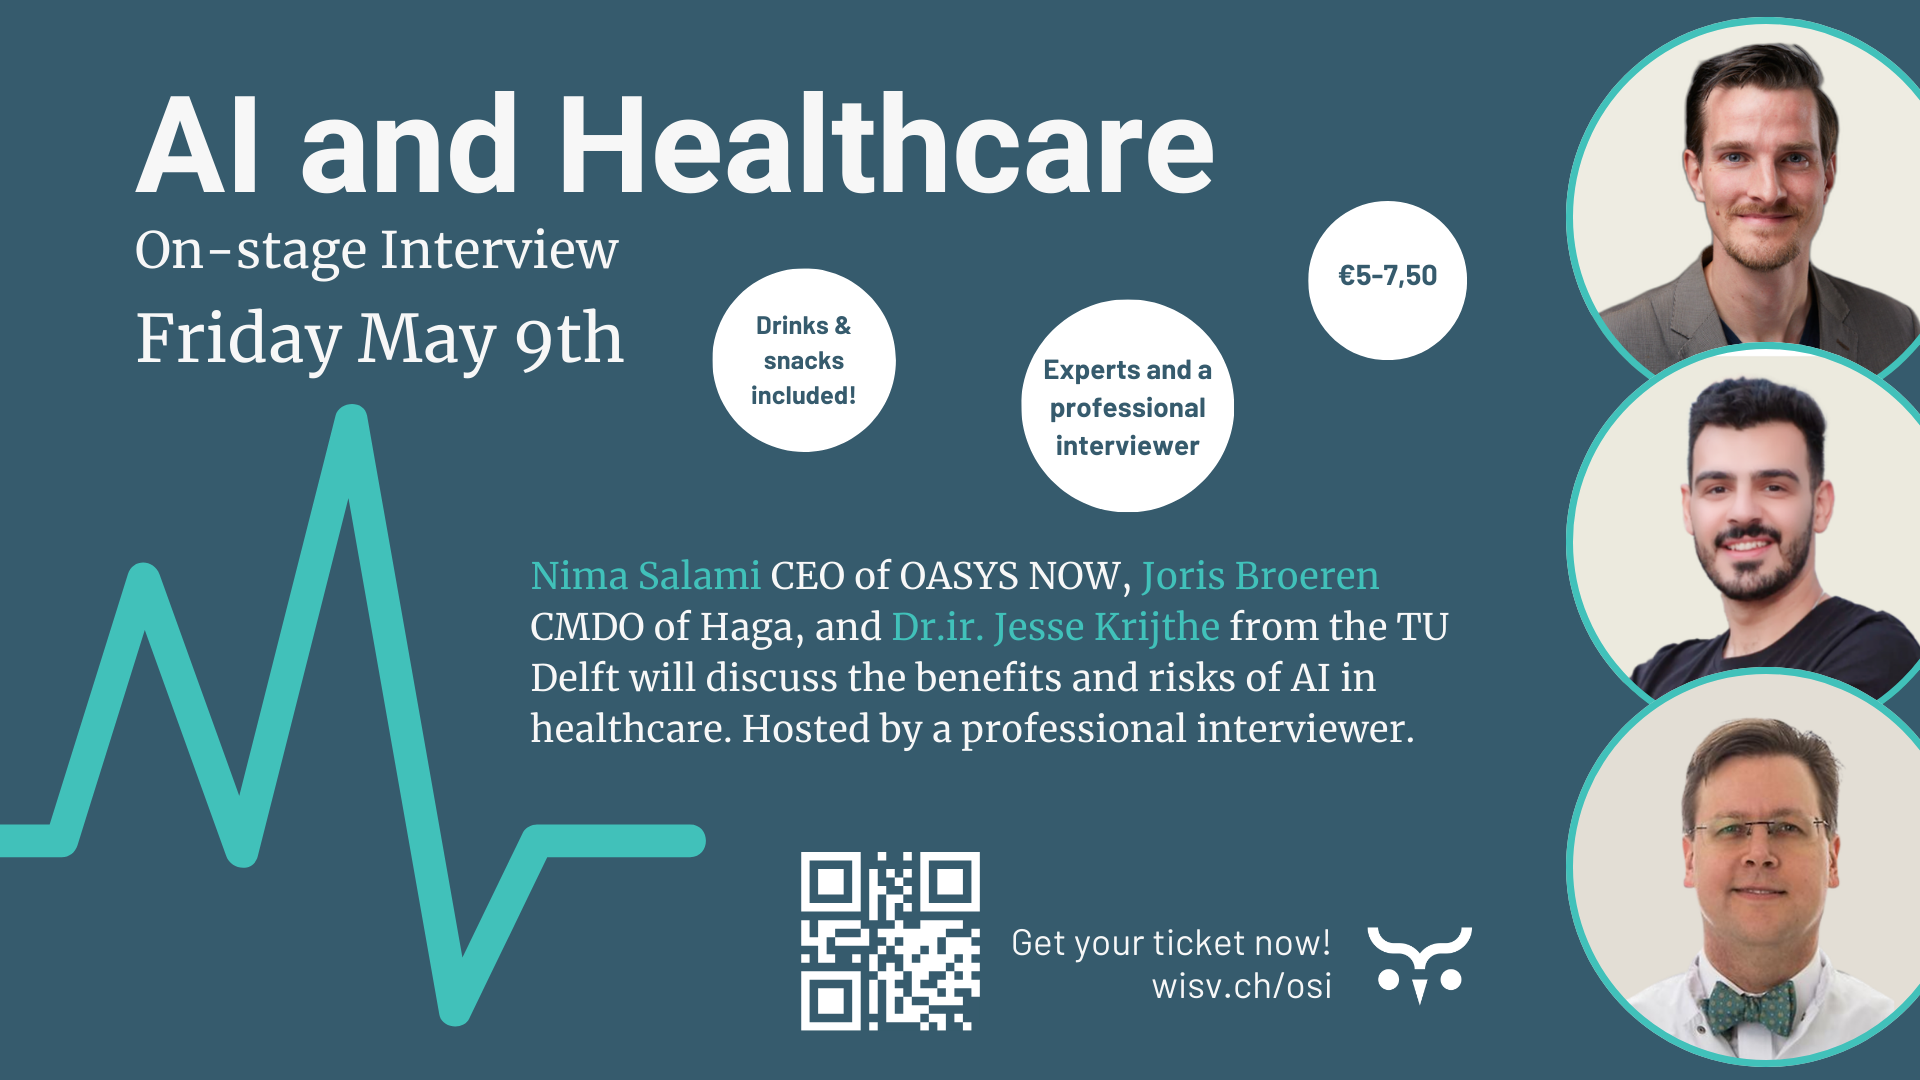
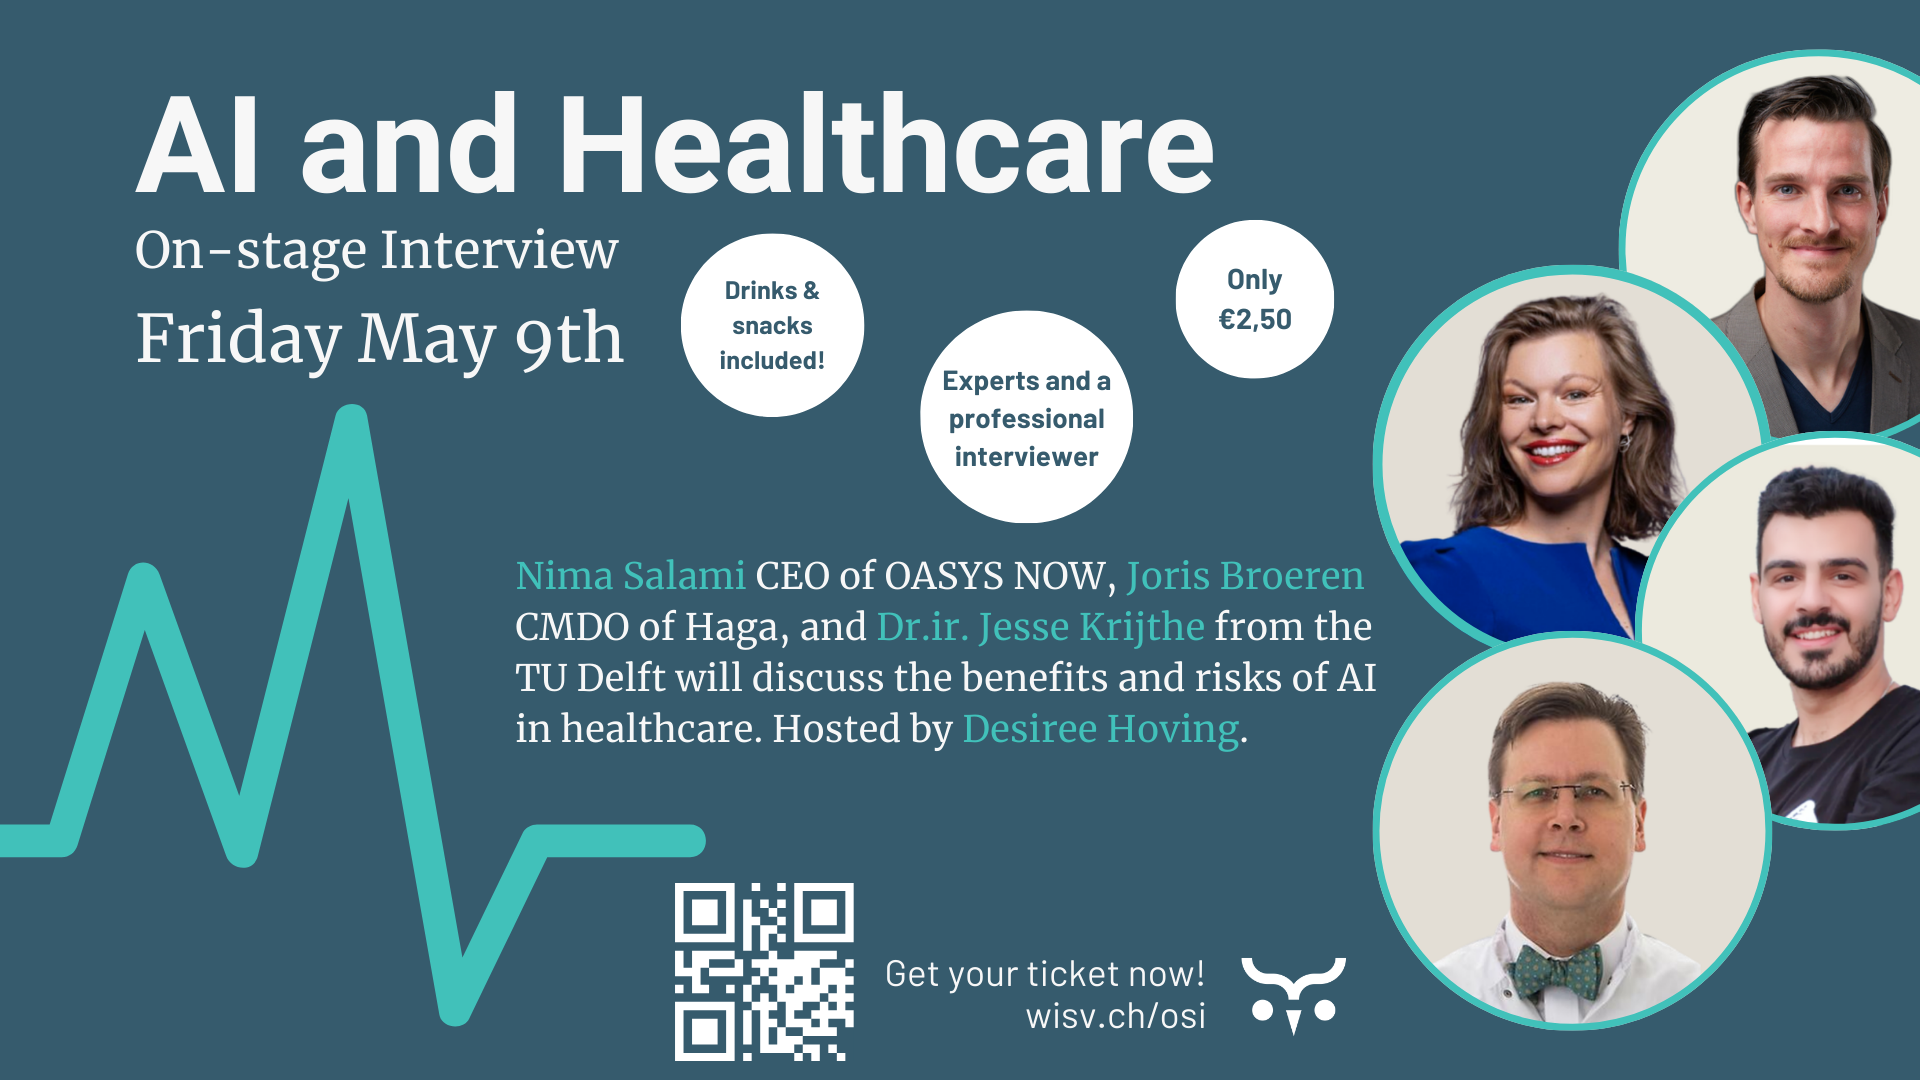
fix(CoH): update text and poster to include interviewer

Changed region(s): [[0.25, 0.0, 1.0, 1.0]]

diff --git a/alumni.ch.tudelft.nl/index.html@p=737_osi_2025.html b/alumni.ch.tudelft.nl/index.html@p=737_osi_2025.html
@@ -341,11 +341,11 @@ body.custom-background { background-color: #eff4fc; }
 			</header><!-- .entry-header -->
 
 			<div class="entry-content">
-				
+
+				<p>During this year's On-Stage Interview, a panel will be interviewed on the topic of AI and healthcare. The panel consists of Nima Salami, Joris Broeren, and Jesse Krijthe. The interview will be led by Desiree Hoving, who used to do research at TU Delft and is now a professional moderator.</p
+				<p>Nima Salami is founder of OASYS NOW. His start-up has a mission to build a privacy-first way for people to have grip on their health data and be matched with clinical trials. Joris Broeren is anesthesiologist and Chief medical Data Officer at HAGA Ziekenhuis. He will provide his view upon AI in healthcare as a medical specialist. Jesse Krijthe is assistant professor in the Pattern Recognition & Bioinformatics group at the TU, he will provide an academical view.</p
+<p>The interview will take place in the Aula and there will be drinks afterwards. You are welcome from 19:30, the interview will start at 20:00.</p>				
 				<p>Tickets for alumni are free and available via <a href="https://wisv.ch/alumniosi">wisv.ch/alumniosi</a>.</p>
-				<p>During this year&#8217;s On-Stage Interview, a panel will be interviewed on the topic of AI and healthcare. The panel consists of Nima Salami, Joris Broeren, and Jesse Krijthe.</p>
-				<p>Nima Salami is founder of OASYS NOW. His start-up has a mission to build a privacy-first way for people to have grip on their health data and be matched with clinical trials. Joris Broeren is anesthesiologist and Chief medical Data Officer at HAGA Ziekenhuis. He will provide his view upon AI in healthcare as a medical specialist. Jesse Krijthe is assistant professor in the Pattern Recognition & Bioinformatics group at the TU, he will provide an academical view.</p>
-				<p>The interview will take place in the Aula and there will be a borrel afterwards. You are welcome from 19:30, the interview will start at 20:00.</p>
 				
 			</div><!-- .entry-content -->
 

diff --git a/alumni.ch.tudelft.nl/index.html b/alumni.ch.tudelft.nl/index.html
@@ -337,9 +337,9 @@ body.custom-background { background-color: #eff4fc; }
 	</header><!-- .entry-header -->
 
 	<div class="entry-summary">
-		<p>Tickets for alumni are free and available via <a href="https://wisv.ch/alumniosi">wisv.ch/alumniosi</a>.</p>
-		<p>During this year&#8217;s On-Stage Interview, a panel will be interviewed on the topic of AI and healthcare. The panel consists of Nima Salami, Joris Broeren, and Jesse Krijthe.</p>	
+		<p>During this year's On-Stage Interview, a panel will be interviewed on the topic of AI and healthcare. The panel consists of Nima Salami, Joris Broeren, and Jesse Krijthe. The interview will be led by Desiree Hoving, who used to do research at TU Delft and is now a professional moderator.</p>
 		<p>Nima Salami is founder of OASYS NOW. His start-up has a mission to build a privacy-first way for people to have grip on their health data and ...</p>
+		<p>Tickets for alumni are free and available via <a href="https://wisv.ch/alumniosi">wisv.ch/alumniosi</a>.</p>
 		<p class="read-more"><a class="btn btn-default" href="index.html@p=737_osi_2025.html"> Read More<span class="screen-reader-text">  Read More</span></a></p>
 	</div><!-- .entry-summary -->
 
